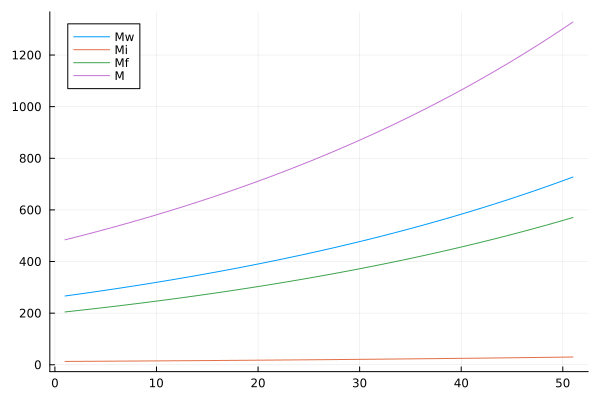
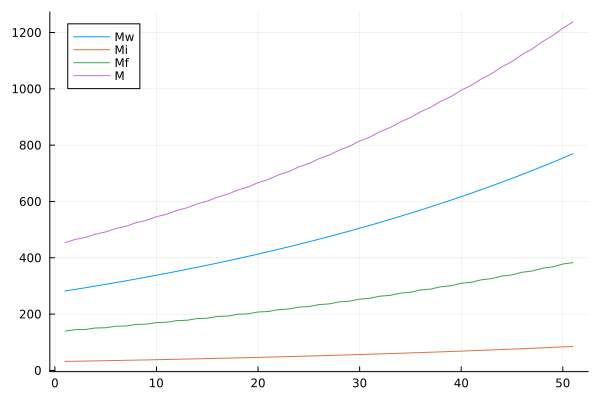
ver. 0.2.1

diff --git a/README.md b/README.md
@@ -1,6 +1,7 @@
 
 **汎用的なSFCモデルを目指す**
 
+- [課題](#課題)
 - [TEM](#tem)
 - [BSM](#bsm)
 - [式一覧](#式一覧)
@@ -10,6 +11,8 @@
     - [1990までと1990からの日本の様子を再現するか？](#1990までと1990からの日本の様子を再現するか)
   - [パラメータの値を変えると各種指標はどう変化するのか、プロット](#パラメータの値を変えると各種指標はどう変化するのかプロット)
 
+# 課題
+政府債務残高対GDP比が大きすぎる問題。資産への税率が低い？キャピタルゲインへの税率が低い？投資家の消費性向が低い？
 
 # TEM
 |                            | 労働者(経常)  | 労働者(資本)  |   投資家(経常)    |   投資家(資本)   |  企業(経常)   |   企業(資本)   |   民間金融機関    |     統合政府     | 合計 |
@@ -53,17 +56,17 @@
 
 # 式一覧
 上から順に計算する
-$W_f=(1-\lambda_w)W_{f-1}+\lambda_w\delta(C_{-1}+C_{a-1}+I_{-1}+G_{-1})$
+$W_f=(1-\lambda_w)W_{f-1}+\lambda_w\delta(C_{-1}+C_{a-1}+I_{-1}+G_{-1}-T_{v-1}-T_{af-1}-r_LL_{f-1})$
 $W_b=(1-\lambda_w)W_{b-1}+\lambda_w\delta(-T_{cb-1}+P_{b-1}-IT_{-1}+r_LL_{-1}+r_{GB}GB_{b-1})$
 $W_g=W_{g0}\exp(\gamma t)$
 $W=W_f+W_b+W_g$
 $T_{iw}=\epsilon_1 W$
-$T_{ci}=\max\{0, \epsilon_7(E_{i-1}-\Delta E_{i-1})+\epsilon_8\Delta p_{e-1}(e_{i-1}-\Delta e_{i-1})\}$
-$T_{cb}=\max\{0, \epsilon_7(E_{b-1}-\Delta E_{b-1})+\epsilon_8\Delta p_{e-1}(e_{b-1}-\Delta e_{b-1})\}$
+$T_{ci}=\max\{0, \epsilon_7\Delta p_{e-1}(e_{i-1}-\Delta e_{i-1})+\epsilon_9(E_{i-1}-\Delta E_{i-1})\}$
+$T_{cb}=\max\{0, \epsilon_7\Delta p_{e-1}(e_{b-1}-\Delta e_{b-1})+\epsilon_9(E_{b-1}-\Delta E_{b-1})\}$
 $T_c=T_{ci}+T_{cb}$
 $G=G_0\exp(\gamma t)$
 $C_w=\alpha_4\{\alpha_1(W-T_{iw}-T_{aw}-r_LL_{w-1})+\alpha_2(NW_{w-1}-K_{w-1})\}$
-$C_i=\alpha_5\alpha_3(P_{i-1}-T_{ii}-T_{ai}+r_{GB}GB_{i-1})$
+$C_i=\alpha_5\alpha_3(P_{i-1}+IT_{-1}-T_{ii}-T_{ai}-T_{ci}+r_{GB}GB_{i-1})$
 $C=C_w+C_i$
 $C_{aw}=(1-\alpha_4)\{\alpha_1(W-T_{iw}-T_{aw}-r_LL_{w-1})+\alpha_2(NW_{w-1}-K_{w-1})\}$
 $C_{ai}=(1-\alpha_5)\alpha_3(P_{i-1}-T_{ii}-T_{ai}+r_{GB}GB_{i-1})$
@@ -71,15 +74,15 @@ $C_a=C_{aw}+C_{ai}$
 $I=\max[0, \min\{(\frac{C+C_a+G}{\beta_1 K_{f-1}}-u^T)K_{f-1}+\beta_2K_{f-1}, \beta_3(M_{f-1}-L_{f-1})\}]$
 $T_v=\epsilon_2(C+C_a+G+I)$
 $T_{ff}=\max\{0,\epsilon_3(C+C_a+G+I-W_f-T_v-T_{af}-r_LL_{f-1})\}$
-$T_{aw}=\epsilon_5K_{w-1}$
-$T_{ai}=\epsilon_5K_{i-1}$
+$T_{aw}=\epsilon_5K_{w-1} + \epsilon_8(M_{w-1}-L_{i-1})$
+$T_{ai}=\epsilon_5K_{i-1} + \epsilon_8(M_{i-1}+E_{i-1}+GB_{i-1})$
 $T_{af}=\epsilon_6K_{f-1}$
 $T_a=T_{aw}+T_{ai}+T_{af}$
 $P=C+C_a+G+I-W_f-T_v-T_{ff}-T_{af}-r_LL_{f-1}$
-$P_i=\zeta(P-I)\frac{E_{i-1}}{E_{-1}}$
-$P_b=\zeta(P-I)\frac{E_{b-1}}{E_{-1}}$
+$P_i=\{\zeta_1(P-I)+\zeta_2(M_{f-1}-L_{f-1})\}\frac{E_{i-1}}{E_{-1}}$
+$P_b=\{\zeta_1(P-I)+\zeta_2(M_{f-1}-L_{f-1})\}\frac{E_{b-1}}{E_{-1}}$
 $P_f=P-P_i-P_b$
-$IT=\theta P_b$
+$IT=\theta_1 P_b + \theta_2 NL_{b-1}$
 $T_{ii}=\epsilon_4(P_i+IT+r_{GB}GB_{i-1})$
 $T_i=T_{iw}+T_{ii}$
 $T_{fb}=\max\{0, \epsilon_3(-W_b+P_b+r_LL_{-1}+r_{GB}GB_{b-1})\}$
@@ -91,7 +94,7 @@ $NL_i=-C_{ai}+S_i$
 $NL_f=P_f-I$
 $NL_b=-W_b-T_{fb}-T_{cb}+P_b-S+r_LL_{-1}+r_{GB}GB_{b-1}$
 $NL_g=-G-W_g+T_i+T_v+T_f+T_a+T_c-r_{GB}GB_{-1}$
-$L_w=\eta_1(W-T_i)$
+$L_w=\eta_1(W-T_{iw}-T_{aw}-r_LL_{w-1})$
 $\Delta L_w=L_w-L_{w-1}$
 $H_w=\eta_2C_w$
 $\Delta H_w=H_w-H_{w-1}$
@@ -195,16 +198,16 @@ $(\alpha_1, \alpha_2, \alpha_3, \alpha_4, \alpha_5)=(0.9, 0.05, 0.2, 0.9, 0.7)$
 $(\beta_1, \beta_2, \beta_3, \beta_4)=(1,0.05,1, 0.05)$
 $\gamma=0.02$
 $\delta=0.65$
-$(\epsilon_1, \epsilon_2, \epsilon_3, \epsilon_4, \epsilon_5, \epsilon_6, \epsilon_7, \epsilon_8)=(0.3,0.1,0.2,0.2, 0.05, 0.02, 0.1, 0.1)$
+$(\epsilon_1, \epsilon_2, \epsilon_3, \epsilon_4, \epsilon_5, \epsilon_6, \epsilon_7, \epsilon_8)=(0.3,0.1,0.2,0.2, 0.03, 0.02, 0.2, 0.01)$
 $\zeta=0.3$
 $(\eta_1,\eta_2,\eta_3,\eta_4,\eta_5)=(5,0.1,0.3,0.5,0.01)$
-$\theta=0.3$
+$(\theta_1, \theta_2)=(0.3, 0.2)$
 $(\lambda_V, \lambda_w)=(0.5, 0.5)$
 $(\lambda_{10}, \lambda_{20}, \lambda_{30})=(0.3, 0.4, 0.3)$
 $\begin{pmatrix}  \lambda_{11} & \lambda_{12} & \lambda_{13}\\  \lambda_{21} & \lambda_{22} & \lambda_{23}\\  \lambda_{31} & \lambda_{23} & \lambda_{33}\end{pmatrix}=\begin{pmatrix}  1 & -0.5 & -0.5\\  -0.5 & 1 & -0.5\\  -0.5 & -0.5 & 1\end{pmatrix}$
 $(\lambda_{40}, \lambda_{50})=(0.5, 0.5)$
 $\begin{pmatrix}  \lambda_{41} & \lambda_{42}\\  \lambda_{51} & \lambda_{52}\end{pmatrix}=\begin{pmatrix}  0.7 & -0.7\\  -0.7 & 0.7\end{pmatrix}$
-$(r_L,r_{GB})=(0.01, 0.03)$
+$(r_L,r_{GB})=(0.01, 0.02)$
 $u^T=0.8$
 
 # 再現されるか確かめたい現象
